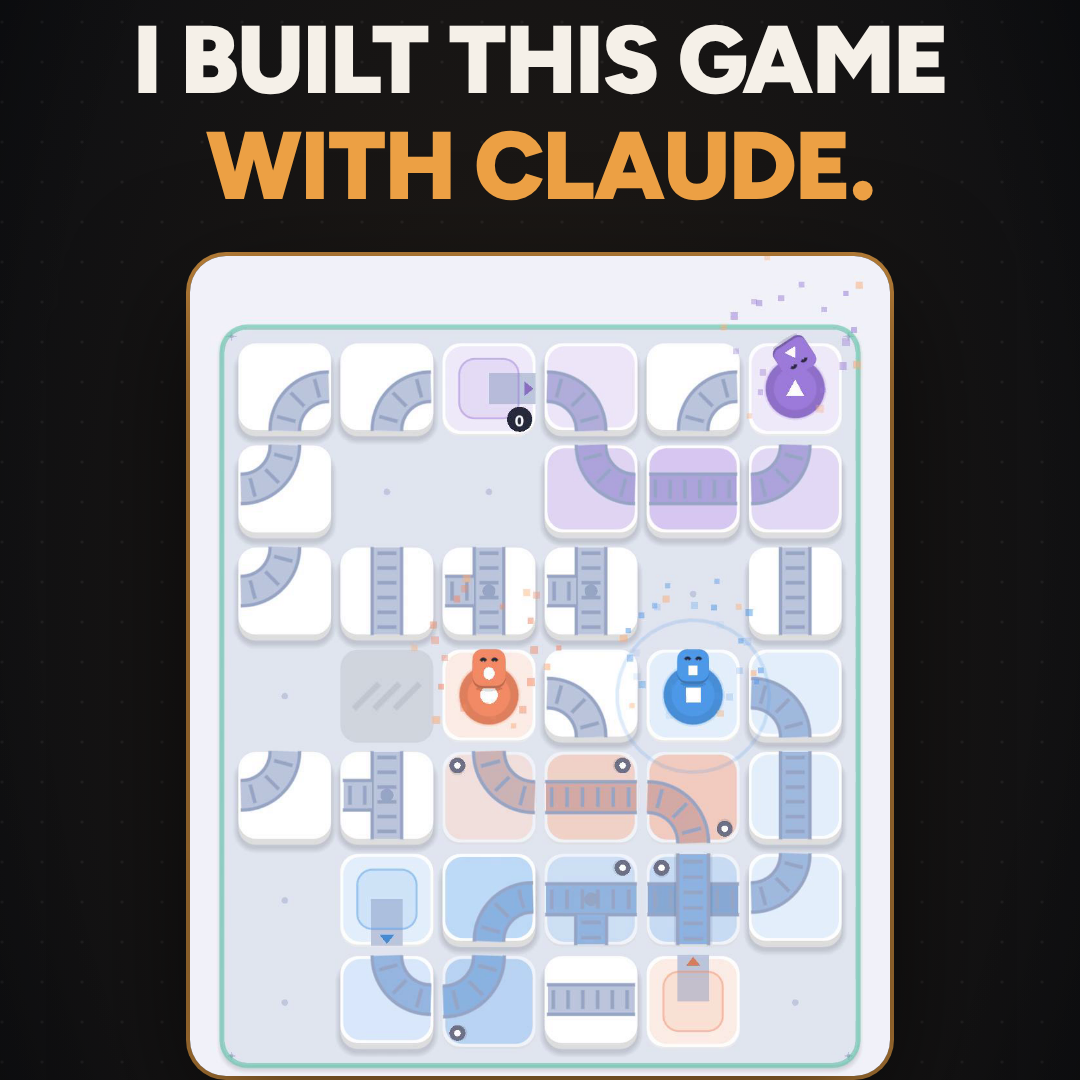
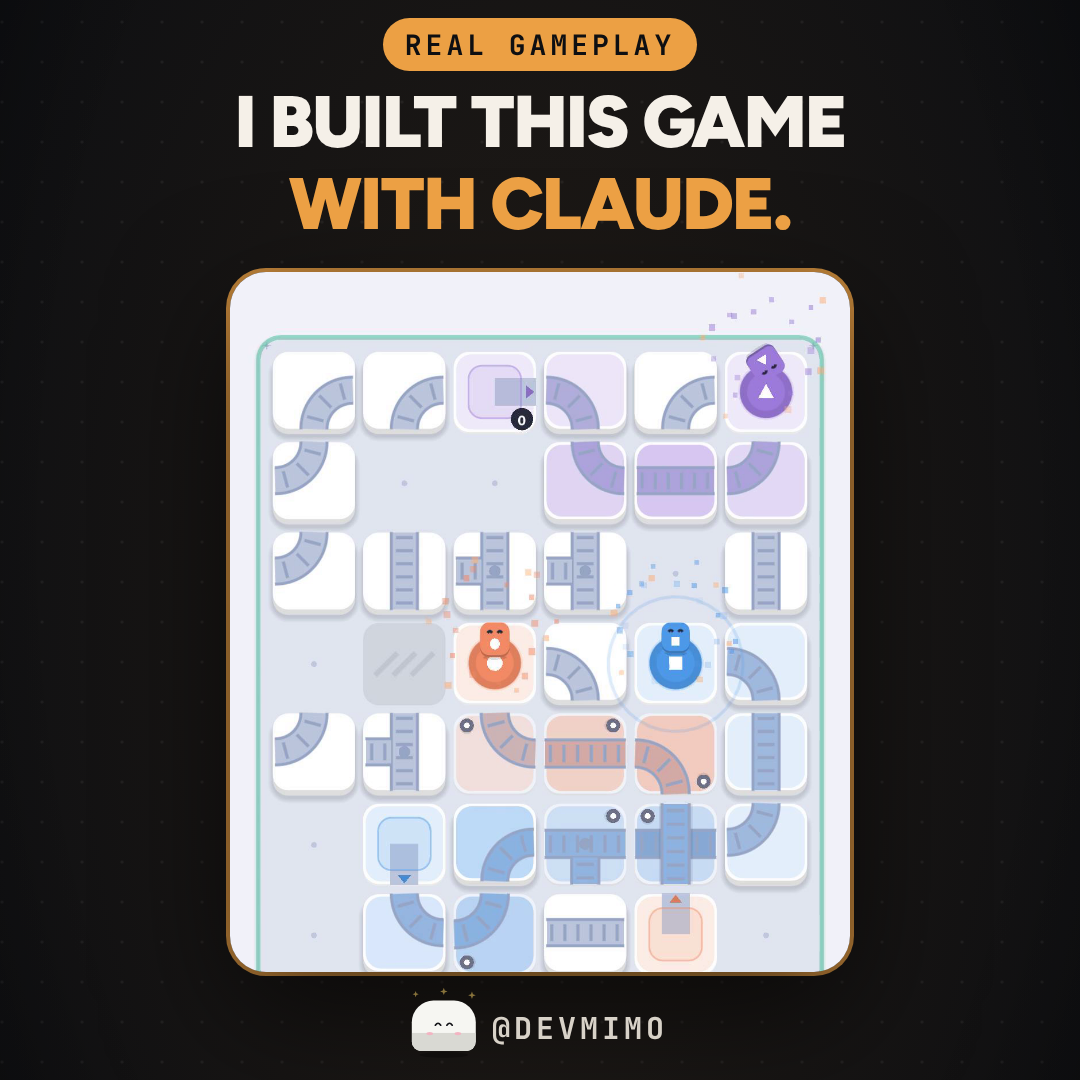
Game reel cover: keep everything inside the area every Instagram crop shows
Headline, board, tag and handle now sit in x 180-900, y 430-1490, which the
1:1, 4:5, 3:4 profile-grid and 4:5-used-as-9:16 crops all keep. Adds the 3:4
crop, an all-crops mask, and a measured QA check on the cover master.

Claude-Session: https://claude.ai/code/session_012HNgmVZTbXZJdGU2s1RCq4

diff --git a/src/gamereel/GameReel.tsx b/src/gamereel/GameReel.tsx
@@ -197,20 +197,25 @@ export const GameReelCover: React.FC<GameCoverProps> = p => {
       <Img src={staticFile(p.frame)} style={{position: 'absolute', left: 0, top: -p.crop[0] * k, width: cw, height: 1920 * k}}/>
     </div>
     <div style={{...box(C.headline), display: 'flex', flexDirection: 'column', alignItems: 'center', gap: 6}}>
-      {p.lines.map((l, i) => <div key={i} style={{fontFamily: FONT.sans, fontWeight: 900, fontSize: 96, lineHeight: 1.04, letterSpacing: -2, whiteSpace: 'nowrap',
+      {p.lines.map((l, i) => <div key={i} style={{fontFamily: FONT.sans, fontWeight: 900, lineHeight: 1.04, letterSpacing: -2, whiteSpace: 'nowrap',
+        fontSize: Math.min(96, Math.floor((C.headline[2] - 20) / (.56 * Math.max(...p.lines.map(x => x.length))))),
         color: p.accent.includes(i) ? S.accent : S.ink}}>{l}</div>)}
     </div>
     <div style={{...box(C.tag), display: 'flex', justifyContent: 'center', alignItems: 'center'}}>
-      <div style={{fontFamily: FONT.mono, fontWeight: 700, fontSize: 34, letterSpacing: 4, color: S.ground, background: S.accent, padding: '10px 24px', borderRadius: 999}}>{p.tag}</div>
+      <div style={{fontFamily: FONT.mono, fontWeight: 700, fontSize: 28, letterSpacing: 4, color: S.ground, background: S.accent, padding: '8px 22px', borderRadius: 999}}>{p.tag}</div>
     </div>
     <div style={{...box(C.brand), display: 'flex', alignItems: 'center', justifyContent: 'center', gap: 16}}>
-      <MimoMascot state="excited" size={110} frame={0} amount={.5}/>
-      <div style={{fontFamily: FONT.mono, fontWeight: 700, fontSize: 36, letterSpacing: 4, color: S.inkSoft}}>{p.handle}</div>
+      <MimoMascot state="excited" size={64} frame={0} amount={.5}/>
+      <div style={{fontFamily: FONT.mono, fontWeight: 700, fontSize: 30, letterSpacing: 4, color: S.inkSoft}}>{p.handle}</div>
     </div>
     {p.mask && <AbsoluteFill>
-      <div style={{position: 'absolute', left: 0, top: 0, width: 1080, height: 285, background: 'rgba(255,0,80,.45)'}}/>
-      <div style={{position: 'absolute', left: 0, top: 1635, width: 1080, height: 285, background: 'rgba(255,0,80,.45)'}}/>
-      <div style={{position: 'absolute', left: 0, top: 420, width: 1080, height: 1080, border: '4px dashed #3f6'}}/>
+      {/* every crop Instagram applies to a Reel cover; content must sit inside the solid green box */}
+      <div style={{position: 'absolute', left: 0, top: 0, width: 1080, height: 240, background: 'rgba(255,0,80,.45)'}}/>
+      <div style={{position: 'absolute', left: 0, top: 1680, width: 1080, height: 240, background: 'rgba(255,0,80,.45)'}}/>
+      <div style={{position: 'absolute', left: 0, top: 285, width: 1080, height: 1350, border: '4px dashed #f80'}}/>
+      <div style={{position: 'absolute', left: 0, top: 420, width: 1080, height: 1080, border: '4px dashed #3cf'}}/>
+      <div style={{position: 'absolute', left: 160, top: 285, width: 760, height: 1350, border: '4px dashed #c6f'}}/>
+      <div style={{...box(C.safe), border: '5px solid #3f6'}}/>
     </AbsoluteFill>}
   </AbsoluteFill>;
 };

diff --git a/examples/game_reel/qa_game_reel.py b/examples/game_reel/qa_game_reel.py
@@ -203,10 +203,19 @@ def run(out: Path, name: str, props: dict, spec: dict, loud: dict, voice: list[d
     add("honesty", "no_unverified_claims", not [x for x in banned if x in nar], "no time-to-build, publication or 'Claude did it alone' claims in narration")
 
     # ---- deliverables
-    want = [f"{name}-final.mp4", f"{name}-no-music.mp4", f"{name}-cover.png", f"{name}-cover-4x5.png", f"{name}-cover-square.png", f"{name}-script.md",
+    want = [f"{name}-final.mp4", f"{name}-no-music.mp4", f"{name}-cover.png", f"{name}-cover-4x5.png", f"{name}-cover-square.png", f"{name}-cover-3x4.png", f"{name}-script.md",
             f"{name}-caption.md", f"{name}-prompt.md"]
     miss = [w for w in want if not (out / w).exists()]
     add("deliverables", "all_files", not miss, "missing: " + ", ".join(miss) if miss else f"{len(want)} files + metadata + QA report")
+    # measured on the cover master: nothing but background outside the box every Instagram crop keeps
+    raw = subprocess.run(["ffmpeg", "-v", "error", "-i", str(out / f"{name}-cover.png"), "-vf", "format=gray", "-f", "rawvideo", "-"], capture_output=True, check=True).stdout
+    cov = np.frombuffer(raw, np.uint8).reshape(1920, 1080).astype(np.float32)
+    x, y, w, h = L["cover"]["safe"]
+    mask = np.ones_like(cov, bool)
+    mask[y:y + h, x:x + w] = False
+    outside = float(cov[mask].max())
+    add("deliverables", "cover_survives_every_crop", outside < 70,
+        f"brightest pixel outside x {x}–{x + w}, y {y}–{y + h}: {outside:.0f}/255 (that box is kept by the 1:1, 4:5, 3:4 grid and 4:5-as-9:16 crops)")
     cp = _probe(out / f"{name}-cover-4x5.png")["streams"][0]
     add("deliverables", "cover_4x5", (cp["width"], cp["height"]) == (1080, 1350), f"{cp['width']}x{cp['height']}")
 

diff --git a/examples/game_reel/build_game_reel.py b/examples/game_reel/build_game_reel.py
@@ -284,6 +284,8 @@ def main():
         (work / "cover.json").write_text(json.dumps(cp))
         bi.remotion("GameReelCover", out / f"{name}-cover.png", work / "cover.json", vcfg, still=0)
         be.cover_crops(out / f"{name}-cover.png", out / f"{name}-cover-4x5.png", out / f"{name}-cover-square.png")
+        # Instagram's profile grid shows Reels at 3:4: the same centre crop, for checking or for the grid-crop step when posting
+        subprocess.run(["ffmpeg", "-v", "error", "-y", "-i", str(out / f"{name}-cover.png"), "-vf", "crop=1080:1440:0:240", str(out / f"{name}-cover-3x4.png")], check=True)
         (work / "cover-mask.json").write_text(json.dumps({**cp, "mask": True}))
         bi.remotion("GameReelCover", out / "qa" / "cover-mask.png", work / "cover-mask.json", vcfg, still=0)
         be.grid_preview(out / f"{name}-cover-square.png", out / "qa" / "cover-grid-thumbnail.png")

diff --git a/outputs/reels/claude-game/claude-game-qa-report.md b/outputs/reels/claude-game/claude-game-qa-report.md
@@ -2,7 +2,7 @@
 
 29.53 s · 168.0 wpm · final -14.2 LUFS / -1.9 dBTP
 
-**47/48 automated checks pass**, 0 fail, 1 advisory. Visual review: recorded.
+**48/49 automated checks pass**, 0 fail, 1 advisory. Visual review: recorded.
 
 ## Visual review (frames inspected)
 
@@ -16,7 +16,7 @@
 - **Loop** — the last frame is the same recording 0.03 s before the first frame's moment, so the replay continues the run
 - **Instagram safe zones** — headline, card, labels, CTA, Mimo, handle and subtitles all clear of the simulated top bar, action rail and caption block
 - **Privacy** — on-screen titles seen: Tri-Color, First Tap, Pair Up, Right of Way, Junction, The Crew, Levels, world names; the level titled with the project's name is cropped below its title bar; home/title screens never used
-- **Cover** — real frame (crew celebration) large under the two-line statement; square and 4:5 crops keep headline + board
+- **Cover** — real frame (crew celebration) under the two-line statement; checked in all five crops (master, 3:4 grid, 4:5, 1:1, 4:5 used as the 9:16 Reel cover) with nothing cut
 
 ### Found and fixed during review
 
@@ -27,6 +27,7 @@
 - Levels shot too short for its line: re-recorded with a scroll through all five worlds
 - Cover board's bottom row was cut: card proportions changed
 - Simulated Instagram caption showed the emoji as a box: stripped for the preview font
+- Cover was cut off in Instagram's crops (headline and board ran nearly edge to edge): all content moved into x 180–900, y 430–1490, which the 1:1, 4:5, 3:4 profile-grid and 4:5-as-9:16 crops all keep; added a 3:4 file and a measured QA check
 
 ### Not verified
 
@@ -165,5 +166,6 @@
 
 | Check | Result | Detail |
 |---|---|---|
-| all_files | PASS | 8 files + metadata + QA report |
+| all_files | PASS | 9 files + metadata + QA report |
+| cover_survives_every_crop | PASS | brightest pixel outside x 180–900, y 430–1490: 35/255 (that box is kept by the 1:1, 4:5, 3:4 grid and 4:5-as-9:16 crops) |
 | cover_4x5 | PASS | 1080x1350 |
